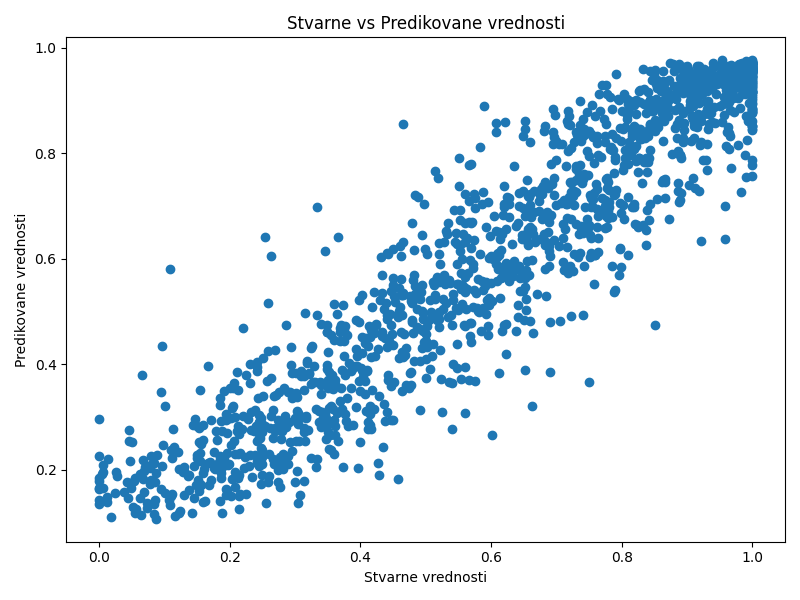
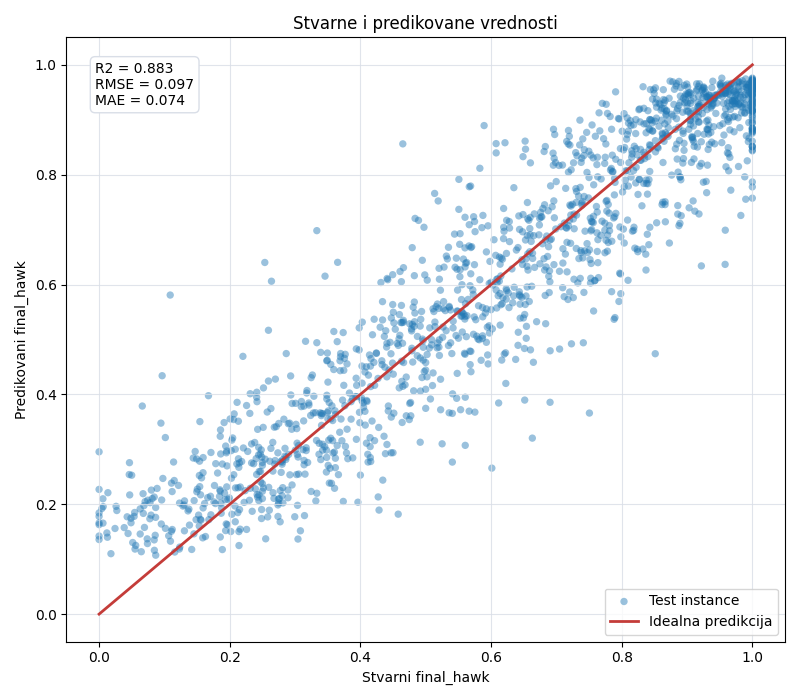
Update evaluation outputs and deployment artifacts

diff --git a/src/evaluate.py b/src/evaluate.py
@@ -3,6 +3,7 @@ import os
 os.environ.setdefault("MPLCONFIGDIR", "/private/tmp/hawk-dove-ml-matplotlib")
 
 import matplotlib
+import numpy as np
 import pandas as pd
 from joblib import load
 from pathlib import Path
@@ -23,6 +24,10 @@ FIGURES_DIR = Path("results/figures")
 METRICS_DIR = Path("results/metrics")
 BEST_MODEL_PATH = Path("models/best_model.joblib")
 
+PLOT_COLOR = "#1f77b4"
+REFERENCE_COLOR = "#c43c39"
+GRID_COLOR = "#d9dee7"
+
 
 def load_test_data():
     X_test = pd.read_csv(PROCESSED_DATA_DIR / "X_test_scaled.csv")
@@ -40,12 +45,40 @@ def calculate_metrics(y_true, y_pred):
     }
 
 
-def save_actual_vs_predicted_plot(y_test, y_pred):
-    plt.figure(figsize=(8, 6))
-    plt.scatter(y_test, y_pred)
-    plt.xlabel("Stvarne vrednosti")
-    plt.ylabel("Predikovane vrednosti")
-    plt.title("Stvarne vs Predikovane vrednosti")
+def save_actual_vs_predicted_plot(y_test, y_pred, metrics):
+    min_value = min(y_test.min(), y_pred.min())
+    max_value = max(y_test.max(), y_pred.max())
+
+    plt.figure(figsize=(8, 7))
+    plt.scatter(
+        y_test,
+        y_pred,
+        s=28,
+        alpha=0.45,
+        color=PLOT_COLOR,
+        edgecolors="none",
+        label="Test instance",
+    )
+    plt.plot(
+        [min_value, max_value],
+        [min_value, max_value],
+        color=REFERENCE_COLOR,
+        linewidth=2,
+        label="Idealna predikcija",
+    )
+    plt.xlabel("Stvarni final_hawk")
+    plt.ylabel("Predikovani final_hawk")
+    plt.title("Stvarne i predikovane vrednosti")
+    plt.grid(True, color=GRID_COLOR, linewidth=0.8, alpha=0.8)
+    plt.legend()
+    plt.text(
+        0.04,
+        0.96,
+        f"R2 = {metrics['R2']:.3f}\nRMSE = {metrics['RMSE']:.3f}\nMAE = {metrics['MAE']:.3f}",
+        transform=plt.gca().transAxes,
+        va="top",
+        bbox={"boxstyle": "round,pad=0.35", "facecolor": "white", "edgecolor": GRID_COLOR},
+    )
     plt.tight_layout()
     plt.savefig(FIGURES_DIR / "actual_vs_predicted.png")
     plt.close()
@@ -55,13 +88,53 @@ def save_residual_plot(y_test, y_pred):
     residuals = y_test - y_pred
 
     plt.figure(figsize=(8, 6))
-    plt.scatter(y_pred, residuals)
-    plt.axhline(y=0)
-    plt.xlabel("Predikovane vrednosti")
-    plt.ylabel("Reziduali")
-    plt.title("Residual plot")
+    plt.scatter(
+        y_pred,
+        residuals,
+        s=28,
+        alpha=0.45,
+        color=PLOT_COLOR,
+        edgecolors="none",
+    )
+    plt.axhline(y=0, color=REFERENCE_COLOR, linewidth=2)
+    plt.xlabel("Predikovani final_hawk")
+    plt.ylabel("Rezidual (stvarno - predikovano)")
+    plt.title("Reziduali po predikovanoj vrednosti")
+    plt.grid(True, color=GRID_COLOR, linewidth=0.8, alpha=0.8)
     plt.tight_layout()
     plt.savefig(FIGURES_DIR / "residual_plot.png")
+    plt.close()
+
+
+def save_residual_distribution_plot(y_test, y_pred):
+    residuals = y_test - y_pred
+
+    plt.figure(figsize=(8, 6))
+    plt.hist(residuals, bins=35, color=PLOT_COLOR, alpha=0.78, edgecolor="white")
+    plt.axvline(0, color=REFERENCE_COLOR, linewidth=2)
+    plt.axvline(residuals.mean(), color="#2f855a", linewidth=2, linestyle="--")
+    plt.xlabel("Rezidual (stvarno - predikovano)")
+    plt.ylabel("Broj instanci")
+    plt.title("Raspodela gresaka modela")
+    plt.grid(True, axis="y", color=GRID_COLOR, linewidth=0.8, alpha=0.8)
+    plt.legend(["Nulta greska", "Prosecna greska"])
+    plt.tight_layout()
+    plt.savefig(FIGURES_DIR / "residual_distribution.png")
+    plt.close()
+
+
+def save_prediction_distribution_plot(y_test, y_pred):
+    plt.figure(figsize=(8, 6))
+    bins = np.linspace(0, 1, 31)
+    plt.hist(y_test, bins=bins, alpha=0.58, label="Stvarno", color="#2f855a")
+    plt.hist(y_pred, bins=bins, alpha=0.58, label="Predikovano", color=PLOT_COLOR)
+    plt.xlabel("final_hawk")
+    plt.ylabel("Broj instanci")
+    plt.title("Raspodela stvarnih i predikovanih vrednosti")
+    plt.grid(True, axis="y", color=GRID_COLOR, linewidth=0.8, alpha=0.8)
+    plt.legend()
+    plt.tight_layout()
+    plt.savefig(FIGURES_DIR / "prediction_distribution.png")
     plt.close()
 
 
@@ -96,14 +169,17 @@ def save_feature_importance(feature_importance):
         index=False,
     )
 
-    plt.figure(figsize=(8, 6))
-    plt.bar(
-        feature_importance["Feature"],
-        feature_importance["Importance"],
+    sorted_importance = feature_importance.sort_values("Importance")
+
+    plt.figure(figsize=(9, 6))
+    plt.barh(
+        sorted_importance["Feature"],
+        sorted_importance["Importance"],
+        color=PLOT_COLOR,
     )
-    plt.xticks(rotation=45)
-    plt.ylabel("Vrednost")
+    plt.xlabel("Vaznost atributa")
     plt.title("Uticaj atributa na predikciju")
+    plt.grid(True, axis="x", color=GRID_COLOR, linewidth=0.8, alpha=0.8)
     plt.tight_layout()
     plt.savefig(FIGURES_DIR / "feature_importance.png")
     plt.close()
@@ -130,8 +206,10 @@ def main():
     y_pred = model.predict(X_test)
     metrics = calculate_metrics(y_test, y_pred)
 
-    save_actual_vs_predicted_plot(y_test, y_pred)
+    save_actual_vs_predicted_plot(y_test, y_pred, metrics)
     save_residual_plot(y_test, y_pred)
+    save_residual_distribution_plot(y_test, y_pred)
+    save_prediction_distribution_plot(y_test, y_pred)
     save_feature_importance(get_feature_importance(model, X_test.columns))
     save_evaluation_metrics(metrics)
 

diff --git a/src/run_pipeline.py b/src/run_pipeline.py
@@ -27,14 +27,6 @@ EXPECTED_OUTPUTS = [
 ]
 
 
-def print_data_flow_check():
-    print("\nProvera podele podataka:", flush=True)
-    print("- train: koristi se za fitovanje kandidatskih modela.", flush=True)
-    print("- validation: koristi se za izbor hiperparametara i najboljeg modela.", flush=True)
-    print("- test: koristi se samo u evaluate.py za finalnu proveru generalizacije.", flush=True)
-    print("- predict: koristi sacuvani model i scaler za novi scenario.", flush=True)
-
-
 def run_step(step_name, script_path):
     print(f"\n=== {step_name} ===", flush=True)
     subprocess.run(
@@ -56,8 +48,6 @@ def verify_outputs():
 
 
 def main():
-    print_data_flow_check()
-
     for step_name, script_path in PIPELINE_STEPS:
         run_step(step_name, script_path)
 

diff --git a/specifikacija_ispravljena.md b/specifikacija_ispravljena.md
@@ -1,0 +1,88 @@
+# Predikcija konačnog odnosa strategija u Hawk-Dove evolutivnoj igri primenom metoda mašinskog učenja
+
+Predmet: Softverski algoritmi u sistemima automatskog upravljanja
+
+Student: Marija Milenković, RA 89-2023
+
+Novi Sad, jun 2026.
+
+## Sadržaj
+
+Opis problema
+
+Cilj projekta
+
+Podaci
+
+Evaluacija i dokumentacija
+
+## Opis problema
+
+Evolutivne igre su matematički modeli sa različitim pravilima, dobicima i matematičkim osobinama. Svaka igra predstavlja određeni problem sa kojim se jedinke suočavaju, kao i strategije koje mogu koristiti kako bi preživele i razmnožavale se. Ove igre često imaju slikovite nazive i priče koje opisuju tipičnu situaciju. Među najpoznatijima su igra jastreb-golub, lov na jelena, tragedija zajedničkih dobara i zatvorenikova dilema. Strategije u tim igrama mogu biti jastreb, golub, buržuj, prevarant, dezerter, procenjivač ili osvetnik. Različite strategije se nadmeću prema pravilima određene igre, a matematički modeli služe za predviđanje ishoda i ponašanja sistema.
+
+Evolutivna igra na koju ću ja primeniti mašinsko učenje je igra jastreb-golub. Ona je osmišljena kako bi objasnila sukob oko deljivog resursa. Učesnici mogu biti jastrebovi ili golubovi, odnosno dva tipa iste vrste sa različitim strategijama ponašanja.
+
+Jastreb prvo pokazuje agresiju, a zatim eskalira sukob u pravu borbu sve dok ne pobedi ili ne bude povređen. Golub takođe pokazuje agresiju, ali ako protivnik nastavi eskalaciju, povlači se radi sigurnosti. Ako nema ozbiljne eskalacije, pokušava da podeli resurs.
+
+Ovde je:
+
+- V vrednost resursa,
+- C trošak povrede nastale gubitkom borbe.
+
+Pravila ishoda su sledeća:
+
+- Ako jastreb sretne goluba, jastreb dobija ceo resurs V.
+- Ako jastreb sretne drugog jastreba, svaki ima podjednake šanse za pobedu i poraz, pa je prosečan ishod V/2 - C/2.
+- Ako golub sretne jastreba, povlači se i ne dobija ništa.
+- Ako se sretnu dva goluba, dele resurs i svaki dobija V/2.
+
+Stvarni dobitak zavisi od verovatnoće susreta sa jastrebovima ili golubovima, odnosno od njihovog procenta u populaciji u trenutku sukoba. Taj odnos određuju rezultati svih prethodnih sukoba.
+
+Ako je trošak gubitka C veći od vrednosti pobede V, matematički model vodi ka evolutivno stabilnoj strategiji (ESS), odnosno stabilnoj mešavini obe strategije, gde je procenat jastrebova jednak V/C. Populacija se vraća toj ravnoteži čak i ako dođe do privremenih promena u broju jastrebova ili golubova.
+
+Do ravnoteže se dolazi kada su fitness jastreba i fitness goluba jednaki. To znači da nijedna strategija nema prednost u odnosu na drugu, pa se njihov udeo u populaciji više ne menja. Fitness jastreba zavisi od toga koliko često sreće jastreba, a koliko često goluba. Ako je udeo jastrebova u populaciji x, onda je udeo golubova 1 - x. Kada se jastreb sretne sa jastrebom, očekivani dobitak je (V - C) / 2, a kada se sretne sa golubom, dobija V. Fitness goluba je manji u susretu sa jastrebom, jer tada dobija 0, dok u susretu sa drugim golubom dobija V/2.
+
+U ravnoteži važi da su ova dva fitnessa jednaka. Kada se izrazi izjednače i sredi jednačina, dobija se da je udeo jastrebova u populaciji jednak odnosu vrednosti resursa i cene borbe x = V/C. To znači da će u stabilnoj populaciji procenat jastrebova biti V/C, dok će procenat golubova biti 1 - V/C. Ukoliko je jastrebova manje od V/C, njima se isplati da se šire jer imaju veći fitness. Ako ih je više od V/C, borbe postaju preskupe i njihov broj opada. Zato se sistem vraća ka odnosu V/C.
+
+## Cilj projekta
+
+Cilj projekta je generisanje skupa podataka simulacijom Hawk-Dove evolutivne igre i primena regresionih metoda mašinskog učenja radi predikcije konačnog udela Hawk strategije u populaciji. Cilj projekta je da ispita da li modeli mašinskog učenja mogu uspešno da nauče obrasce ponašanja populacije i aproksimiraju rezultate evolutivne simulacije na osnovu parametara koji opisuju uslove igre.
+
+U okviru simulacije menjaće se različiti parametri, poput vrednosti resursa, cene sukoba, početnog odnosa strategija u populaciji, broja iteracija, brzine učenja, stope mutacije, promenljivosti okruženja i veličine populacije, pri čemu će se za svaku kombinaciju parametara generisati odgovarajući ishod simulacije. Na taj način biće formiran skup podataka koji će služiti za treniranje i evaluaciju regresionih modela.
+
+Pored same predikcije konačne zastupljenosti Hawk strategije, cilj je i analiza uticaja pojedinačnih parametara evolutivne igre na ponašanje populacije i performanse modela mašinskog učenja. Projekat će sadržati kompletan proces razvoja jednog ML sistema, uključujući generisanje i pripremu podataka, izbor atributa, treniranje modela, evaluaciju rezultata i poređenje performansi različitih regresionih metoda. Na osnovu dobijenih rezultata biće analizirano u kojoj meri modeli mogu da prepoznaju stabilna stanja populacije i da generalizuju obrasce koji nastaju tokom evolutivne dinamike Hawk-Dove igre.
+
+## Podaci
+
+Skup podataka biće generisan izvođenjem velikog broja simulacija igre korišćenjem replikatorne dinamike sa dodatim šumom, mutacijom, promenljivošću okruženja i diskretnom veličinom populacije. Za svaku simulaciju nasumično će biti birane vrednosti parametara koji utiču na ponašanje sistema, uključujući vrednost resursa V, cenu sukoba C, početni procenat Hawk strategije u populaciji, broj iteracija simulacije, brzinu učenja, stopu mutacije, promenljivost okruženja i veličinu populacije.
+
+Nakon pokretanja simulacije pratiće se evolucija zastupljenosti Hawk i Dove strategija kroz vreme, sve do završetka zadatog broja iteracija. Svaka simulacija predstavljaće jedan zapis u skupu podataka. Ulazne promenljive obuhvataće parametre simulacije, dok će izlazna promenljiva predstavljati konačan procenat Hawk strategije u populaciji nakon završetka simulacije. Generisanjem velikog broja simulacija sa različitim kombinacijama parametara formiraće se dovoljno veliki i raznovrstan skup podataka za treniranje i evaluaciju regresionih modela mašinskog učenja.
+
+Primer jednog zapisa u skupu podataka može imati sledeći oblik:
+
+| V | C | initial_hawk | iterations | learning_rate | mutation_rate | environment_volatility | population_size | final_hawk |
+|---|---|--------------|------------|---------------|---------------|------------------------|-----------------|------------|
+| 2 | 10 | 0.5 | 100 | 0.05 | 0.01 | 0.03 | 500 | 0.20 |
+
+Atributi (features) koji će se koristiti kao ulazne promenljive modela su:
+
+- vrednost resursa V,
+- cena sukoba C,
+- početni procenat Hawk strategije u populaciji (initial_hawk),
+- broj iteracija simulacije (iterations),
+- brzina učenja (learning_rate),
+- stopa mutacije (mutation_rate),
+- promenljivost okruženja (environment_volatility),
+- veličina populacije (population_size).
+
+Target promenljiva (label) predstavlja konačan procenat Hawk strategije u populaciji nakon završetka simulacije (final_hawk). Pošto je cilj predvideti kontinualnu numeričku vrednost, problem je formulisan kao regresioni zadatak.
+
+## Evaluacija i dokumentacija
+
+Pošto je problem definisan kao regresioni zadatak, evaluacija modela zasnivaće se na poređenju stvarnih vrednosti dobijenih simulacijom Hawk-Dove igre i vrednosti koje predviđa model mašinskog učenja. Za procenu performansi koristiće se standardne regresione metrike: MAE (Mean Absolute Error), MSE (Mean Squared Error), RMSE (Root Mean Squared Error) i R2 score. MAE će meriti prosečno apsolutno odstupanje predikcija od stvarnih vrednosti, MSE i RMSE će dodatno naglašavati veća odstupanja modela, dok će R2 score pokazivati koliko uspešno model objašnjava varijabilnost izlazne promenljive.
+
+Dataset će biti podeljen na trening, validation i test skup kako bi se odvojili treniranje modela, izbor hiperparametara i finalna procena sposobnosti generalizacije modela na novim podacima.
+
+U projektu će biti izvršeno poređenje više regresionih modela, kao što su baseline Dummy regressor, Ridge regresija, KNN regresija i Random Forest regresija, sa ciljem analize njihovih performansi nad generisanim skupom podataka. Rezultati će biti dokumentovani tabelarnim i grafičkim prikazima, kroz poređenje stvarnih i predikovanih vrednosti, prikaz evaluacionih metrika, prikaz izbora hiperparametara i analizu uticaja pojedinačnih atributa na konačno stanje populacije.
+
+Dokumentacija projekta obuhvatiće detaljan opis generisanja skupa podataka, pretprocesinga, izbora modela, procesa treniranja i evaluacije rezultata, kao i interpretaciju dobijenih performansi modela i zaključke o uspešnosti primene metoda mašinskog učenja na problem evolutivne dinamike Hawk-Dove igre.

diff --git a/README.md b/README.md
@@ -4,9 +4,7 @@ Ovaj projekat koristi simulirani Hawk-Dove model iz teorije igara i masinsko uce
 za predikciju finalnog udela hawk strategije u populaciji.
 
 Glavni zadatak je **regresija**, jer se predvidja kontinuirana vrednost
-`final_hawk` iz intervala `[0, 1]`. U projektu postoji i jedan manji
-klasifikacioni primer za cilj `hawk_dominant`, da bi se pokazalo zasto je
-regresija informativnija za ovaj problem.
+`final_hawk` iz intervala `[0, 1]`.
 
 ## Struktura projekta
 
@@ -23,9 +21,11 @@ hawk-dove-ml/
 │   ├── main.py              # generisanje Hawk-Dove dataseta
 │   ├── eda.py               # EDA i data wrangling izvestaji
 │   ├── preprocess.py        # podela podataka i skaliranje atributa
-│   ├── train.py             # treniranje, CV i izbor modela
+│   ├── train.py             # treniranje, tuning i izbor modela
 │   ├── evaluate.py          # evaluacija najboljeg modela
-│   └── predict.py           # primer koriscenja sacuvanog modela
+│   ├── predict.py           # primer koriscenja sacuvanog modela
+│   ├── export_model.py      # eksport modela za deployment
+│   └── app.py               # lokalni AI UI za unos scenarija i predikciju
 └── requirements.txt
 ```
 
@@ -51,6 +51,41 @@ python src/train.py
 python src/evaluate.py
 python src/predict.py
 ```
+
+## Eksport modela i AI UI
+
+Nakon treniranja modela, deployment paket se pravi komandom:
+
+```bash
+python src/export_model.py
+```
+
+Skripta kreira folder `deployment/` sa sledecim fajlovima:
+
+- `best_model.joblib` - eksportovani najbolji model
+- `standard_scaler.joblib` - scaler potreban za iste transformacije kao u treningu
+- `model_metadata.json` - opis ulaza, cilja, izlaza i metrika
+- `hawk_dove_model_bundle.zip` - ZIP paket za prenos deployment fajlova
+
+Lokalni korisnicki interfejs se pokrece komandom:
+
+```bash
+python src/app.py
+```
+
+Zatim se u browseru otvara:
+
+```text
+http://127.0.0.1:8000
+```
+
+Ako je port `8000` zauzet, aplikacija ce automatski probati sledeci slobodan
+port i ispisati tacan URL u terminalu.
+
+UI omogucava unos vrednosti atributa `V`, `C`, `initial_hawk`, `iterations`,
+`learning_rate`, `mutation_rate`, `environment_volatility` i `population_size`.
+Na osnovu sacuvanog modela i scalera prikazuje se predikcija `final_hawk`,
+vrednost `final_dove` i dominantna strategija.
 
 ## Dataset
 
@@ -136,8 +171,9 @@ Random Forest parametri `n_estimators`, `max_depth` i `min_samples_leaf`.
 
 Hiperparametri se biraju na validation skupu. Svaki kandidat se fituje na
 trening skupu, zatim se meri validation `RMSE` i `R2`. Za KNN se broj suseda
-bira preko kolena validation krive, dok se Ridge `alpha` i Random Forest
-kombinacija hiperparametara biraju prema najmanjem validation `RMSE`.
+bira preko kolena validation krive, sto predstavlja kompromis izmedju greske i
+slozenosti modela. Ridge `alpha` i Random Forest kombinacija hiperparametara
+biraju se prema najmanjem validation `RMSE`.
 
 Trenutno izabrani parametri su:
 
@@ -222,19 +258,6 @@ Skripta `src/predict.py` ucitava sacuvani scaler i najbolji model, zatim pravi
 predikciju za jedan novi primer ulaznih parametara. Ovaj fajl pokazuje osnovni
 deployment tok bez UI-a ili API-ja.
 
-## Klasifikacioni primer
-
-U `src/train.py` dodat je jedan primer klasifikacije pomocu logisticke regresije.
-Cilj je `hawk_dominant`, odnosno da li je finalni udeo hawk strategije veci od
-0.5.
-
-Ovaj deo pokazuje razliku izmedju regresije i klasifikacije:
-
-- klasifikacija daje samo klasu: hawk ili dove
-- regresija daje tacan procenjeni udeo `final_hawk`
-
-Zbog toga je regresija glavni zadatak ovog projekta.
-
 ## Trenutni rezultat
 
 Najbolji regresioni model je:
@@ -251,15 +274,3 @@ MSE: 0.0095
 RMSE: 0.0973
 R2: 0.8834
 ```
-
-Test rezultati kada se koriste samo najznacajniji atributi:
-
-```text
-MAE: 0.0735
-MSE: 0.0094
-RMSE: 0.0967
-R2: 0.8847
-```
-
-Klasifikacioni primer sa logistickom regresijom ima test accuracy oko `0.9173`,
-ali on resava jednostavniji zadatak jer predvidja samo dominantnu strategiju.